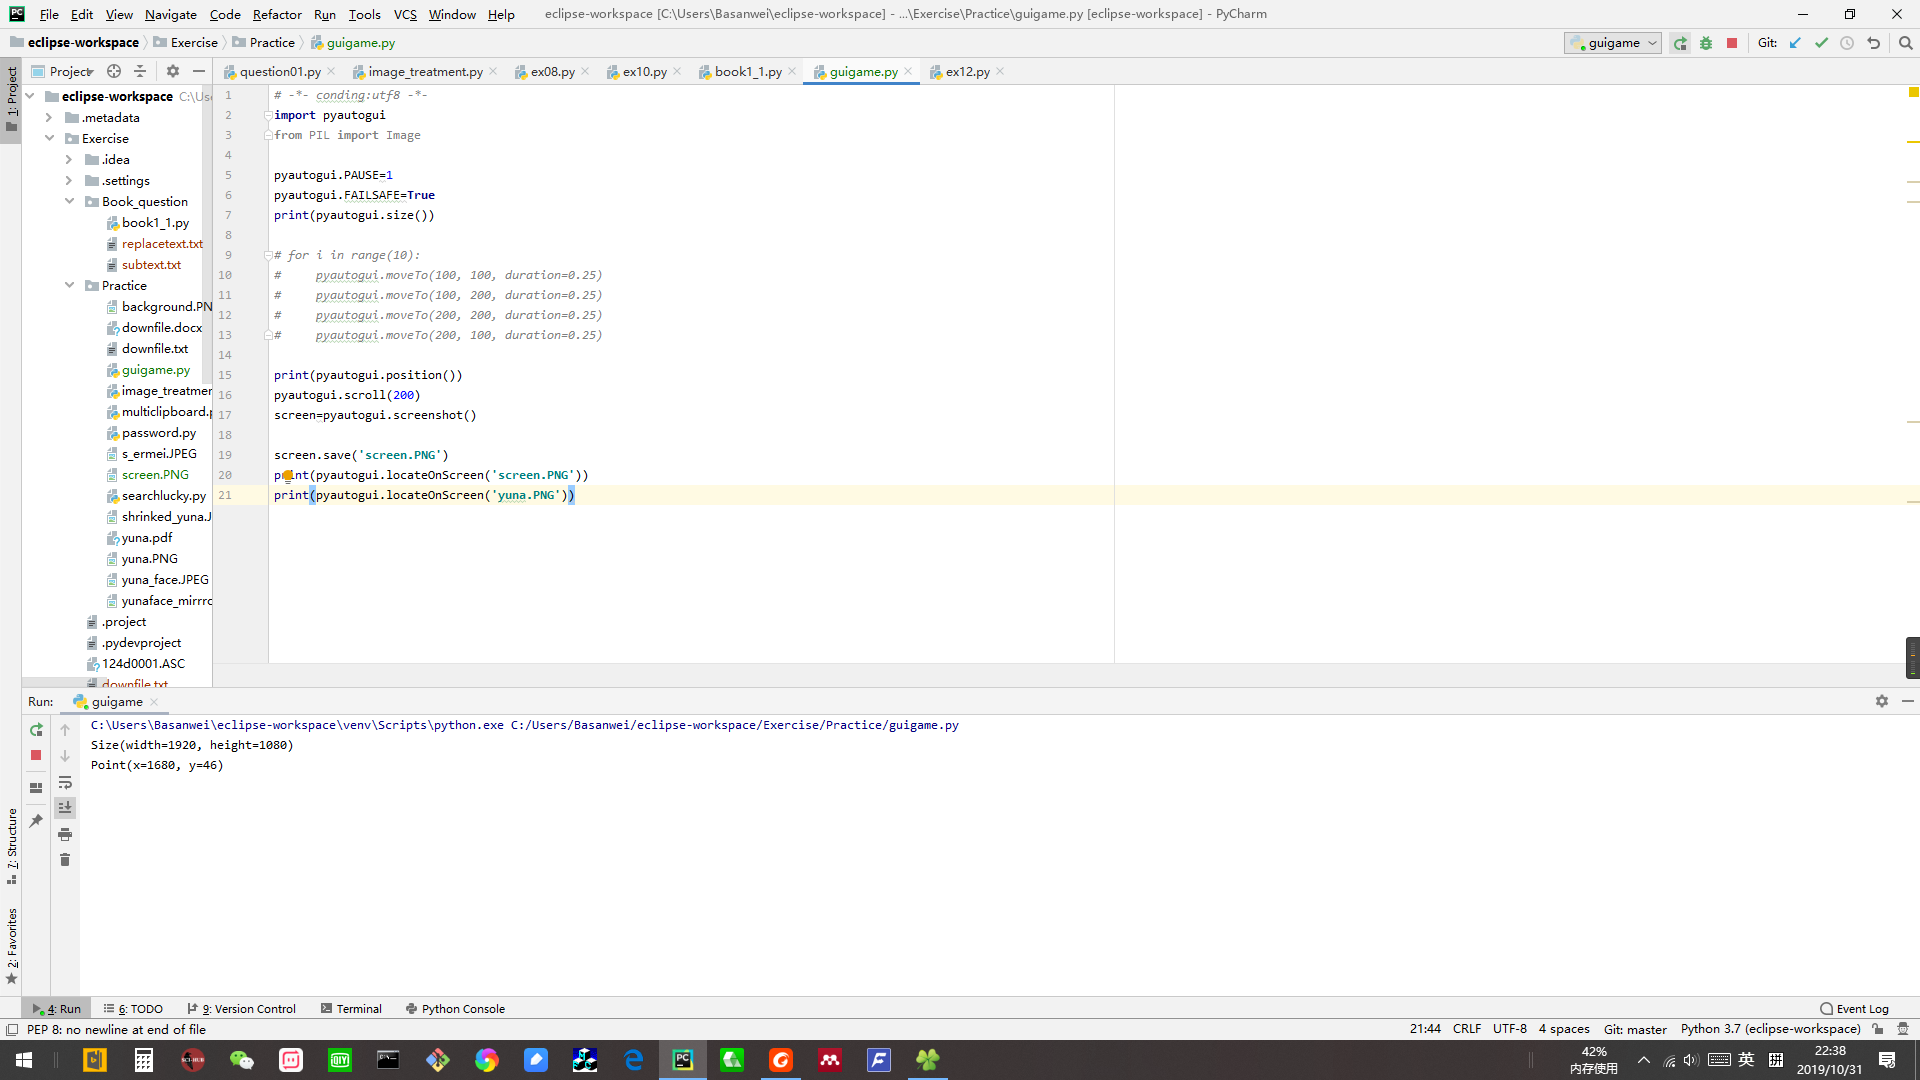
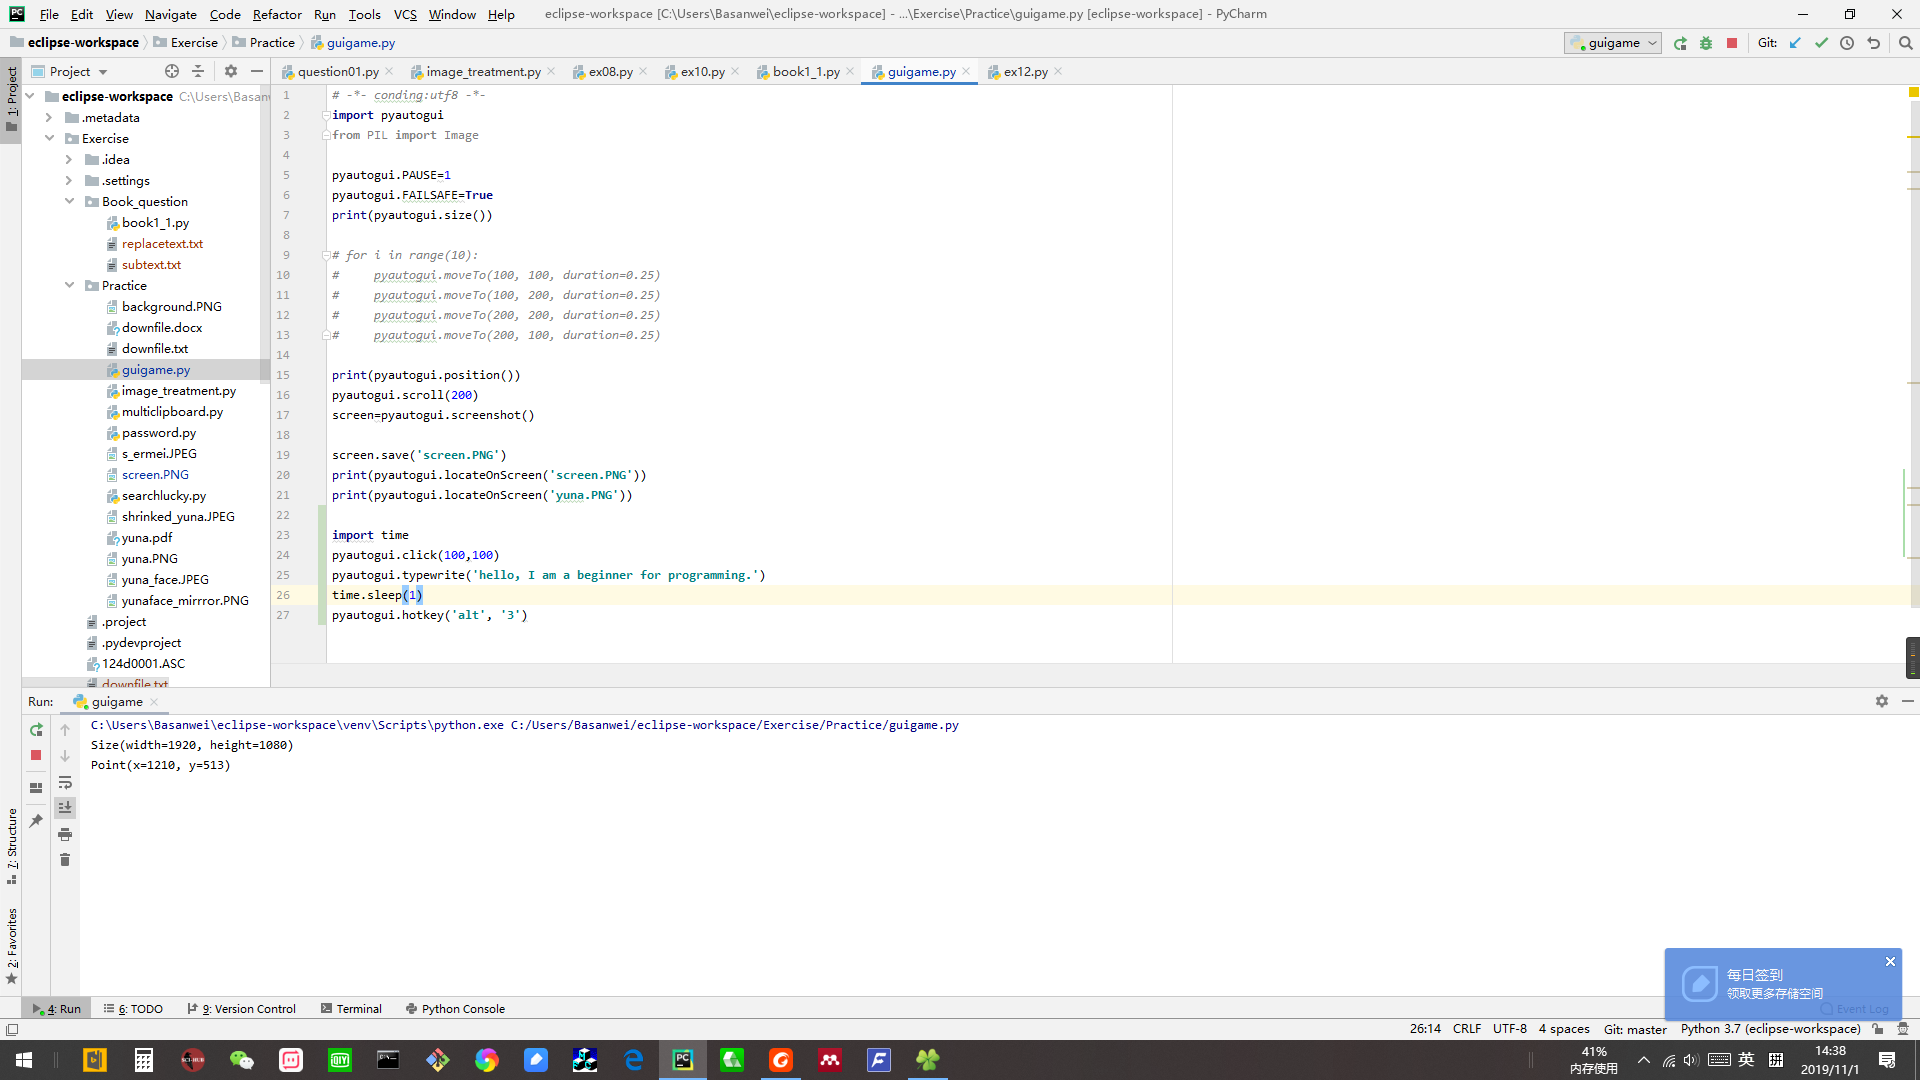
I like python. I am a well-trained chemist with more than 20 years of expertise, but I am a novice in programming. I hope in the rest of my life, I can grow up as a qualified programmer. "Hello World!"

diff --git a/question01.py b/question01.py
@@ -384,39 +384,113 @@ Q38 求一个3*3矩阵主对角线元素之和。
 '''
 Q44 两个 3 行 3 列的矩阵，实现其对应位置的数据相加，并返回一个新矩阵：
 '''
-import numpy as np
-X = [[12,7,3],
-    [4 ,5,6],
-    [7 ,8,9]]
+# import numpy as np
+# X = [[12,7,3],
+#     [4 ,5,6],
+#     [7 ,8,9]]
+#
+# Y = [[5,8,1],
+#     [6,7,3],
+#     [4,5,9]]
+#
+#
+# matX=np.array(X)
+# maty=np.array(Y)
+# sum=np.add(matX,maty)
+# print(sum)
+#
+# import matplotlib.pyplot as plt
+#
+#
+# x=np.linspace(-1.0,1.0,num=500)
+#
+# y1 = np.sqrt(1-x*x)
+# y2 = -np.sqrt(1-x*x)
+# plt.xlabel('X')
+# plt.ylabel('Y')
+# plt.title('This is a circle with radius of one')
+# plt.plot(x,y1,x,y2)
+# plt.show()
+#
+# t=np.linspace(-np.pi, np.pi, num=500)
+# x=np.cos(t)
+# y=np.sin(t)
+# plt.xlabel('X')
+# plt.ylabel('Y')
+# plt.title('This is a true image of circle with radius of one')
+# plt.plot(x,y)
+# plt.show()
 
-Y = [[5,8,1],
-    [6,7,3],
-    [4,5,9]]
+'''
+有 n 个整数，使其前面各数顺序向后移 m 个位置，最后 m 个数变成最前面的 m 个数
+'''
+# def migration(list, m):
+#     n=len(list)
+#     list_end=list[n-1]
+#     for i in range(n-1,-1,-1):
+#         list[i]=list[i-1]
+#     list[0]=list_end
+#     m-=1
+#     while m>0:
+#         migration(list, m)
+#     return list
+# list_b=[5,3,28,1]
+# migration(list_b, 2)
+# print(list_b)
+
+'''
+有n个人围成一圈，顺序排号。从第一个人开始报数（从1到3报数），凡报到3的人退出圈子，问最后留下的是原来第几号的那位。
+'''
+# def count(n):
+#     i,m,k=0,0,0
+#     num=list(range(1,n+1))
+#     while m < n - 1:
+#
+#         if num[i] != 0:
+#             k += 1
+#         if k == 3:
+#             num[i] = 0
+#             k = 0
+#             m += 1
+#         i += 1
+#         if i == n:
+#             i = 0
+#
+#     i = 0
+#     while num[i] == 0:
+#         i += 1
+#     print(num[i])
+#
+# count(34)
+#
+# a=[3,6,4,8,17] #Q73
+# print(a[::-1])
+
+'''
+Q76 :编写一个函数，输入n为偶数时，调用函数求1/2+1/4+...+1/n,当输入n为奇数时，调用函数1/1+1/3+...+1/n
+'''
+def add(n):
+    summ=0
+    while n>0:
+        summ+=1/n
+        n=n-2
+
+    return summ
+print(add(5))
+print(add(4))
 
 
-matX=np.array(X)
-maty=np.array(Y)
-sum=np.add(matX,maty)
-print(sum)
-
-import matplotlib.pyplot as plt
 
 
-x=np.linspace(-1.0,1.0,num=500)
 
-y1 = np.sqrt(1-x*x)
-y2 = -np.sqrt(1-x*x)
-plt.xlabel('X')
-plt.ylabel('Y')
-plt.title('This is a circle with radius of one')
-plt.plot(x,y1,x,y2)
-plt.show()
 
-t=np.linspace(-np.pi, np.pi, num=500)
-x=np.cos(t)
-y=np.sin(t)
-plt.xlabel('X')
-plt.ylabel('Y')
-plt.title('This is a true image of circle with radius of one')
-plt.plot(x,y)
-plt.show()
+
+
+
+
+
+
+
+
+
+

diff --git a/Practice/guigame.py b/Practice/guigame.py
@@ -19,3 +19,9 @@ screen=pyautogui.screenshot()
 screen.save('screen.PNG')
 print(pyautogui.locateOnScreen('screen.PNG'))
 print(pyautogui.locateOnScreen('yuna.PNG'))
+
+import time
+pyautogui.click(100,100)
+pyautogui.typewrite('hello, I am a beginner for programming.')
+time.sleep(1)
+pyautogui.hotkey('alt', '3')
